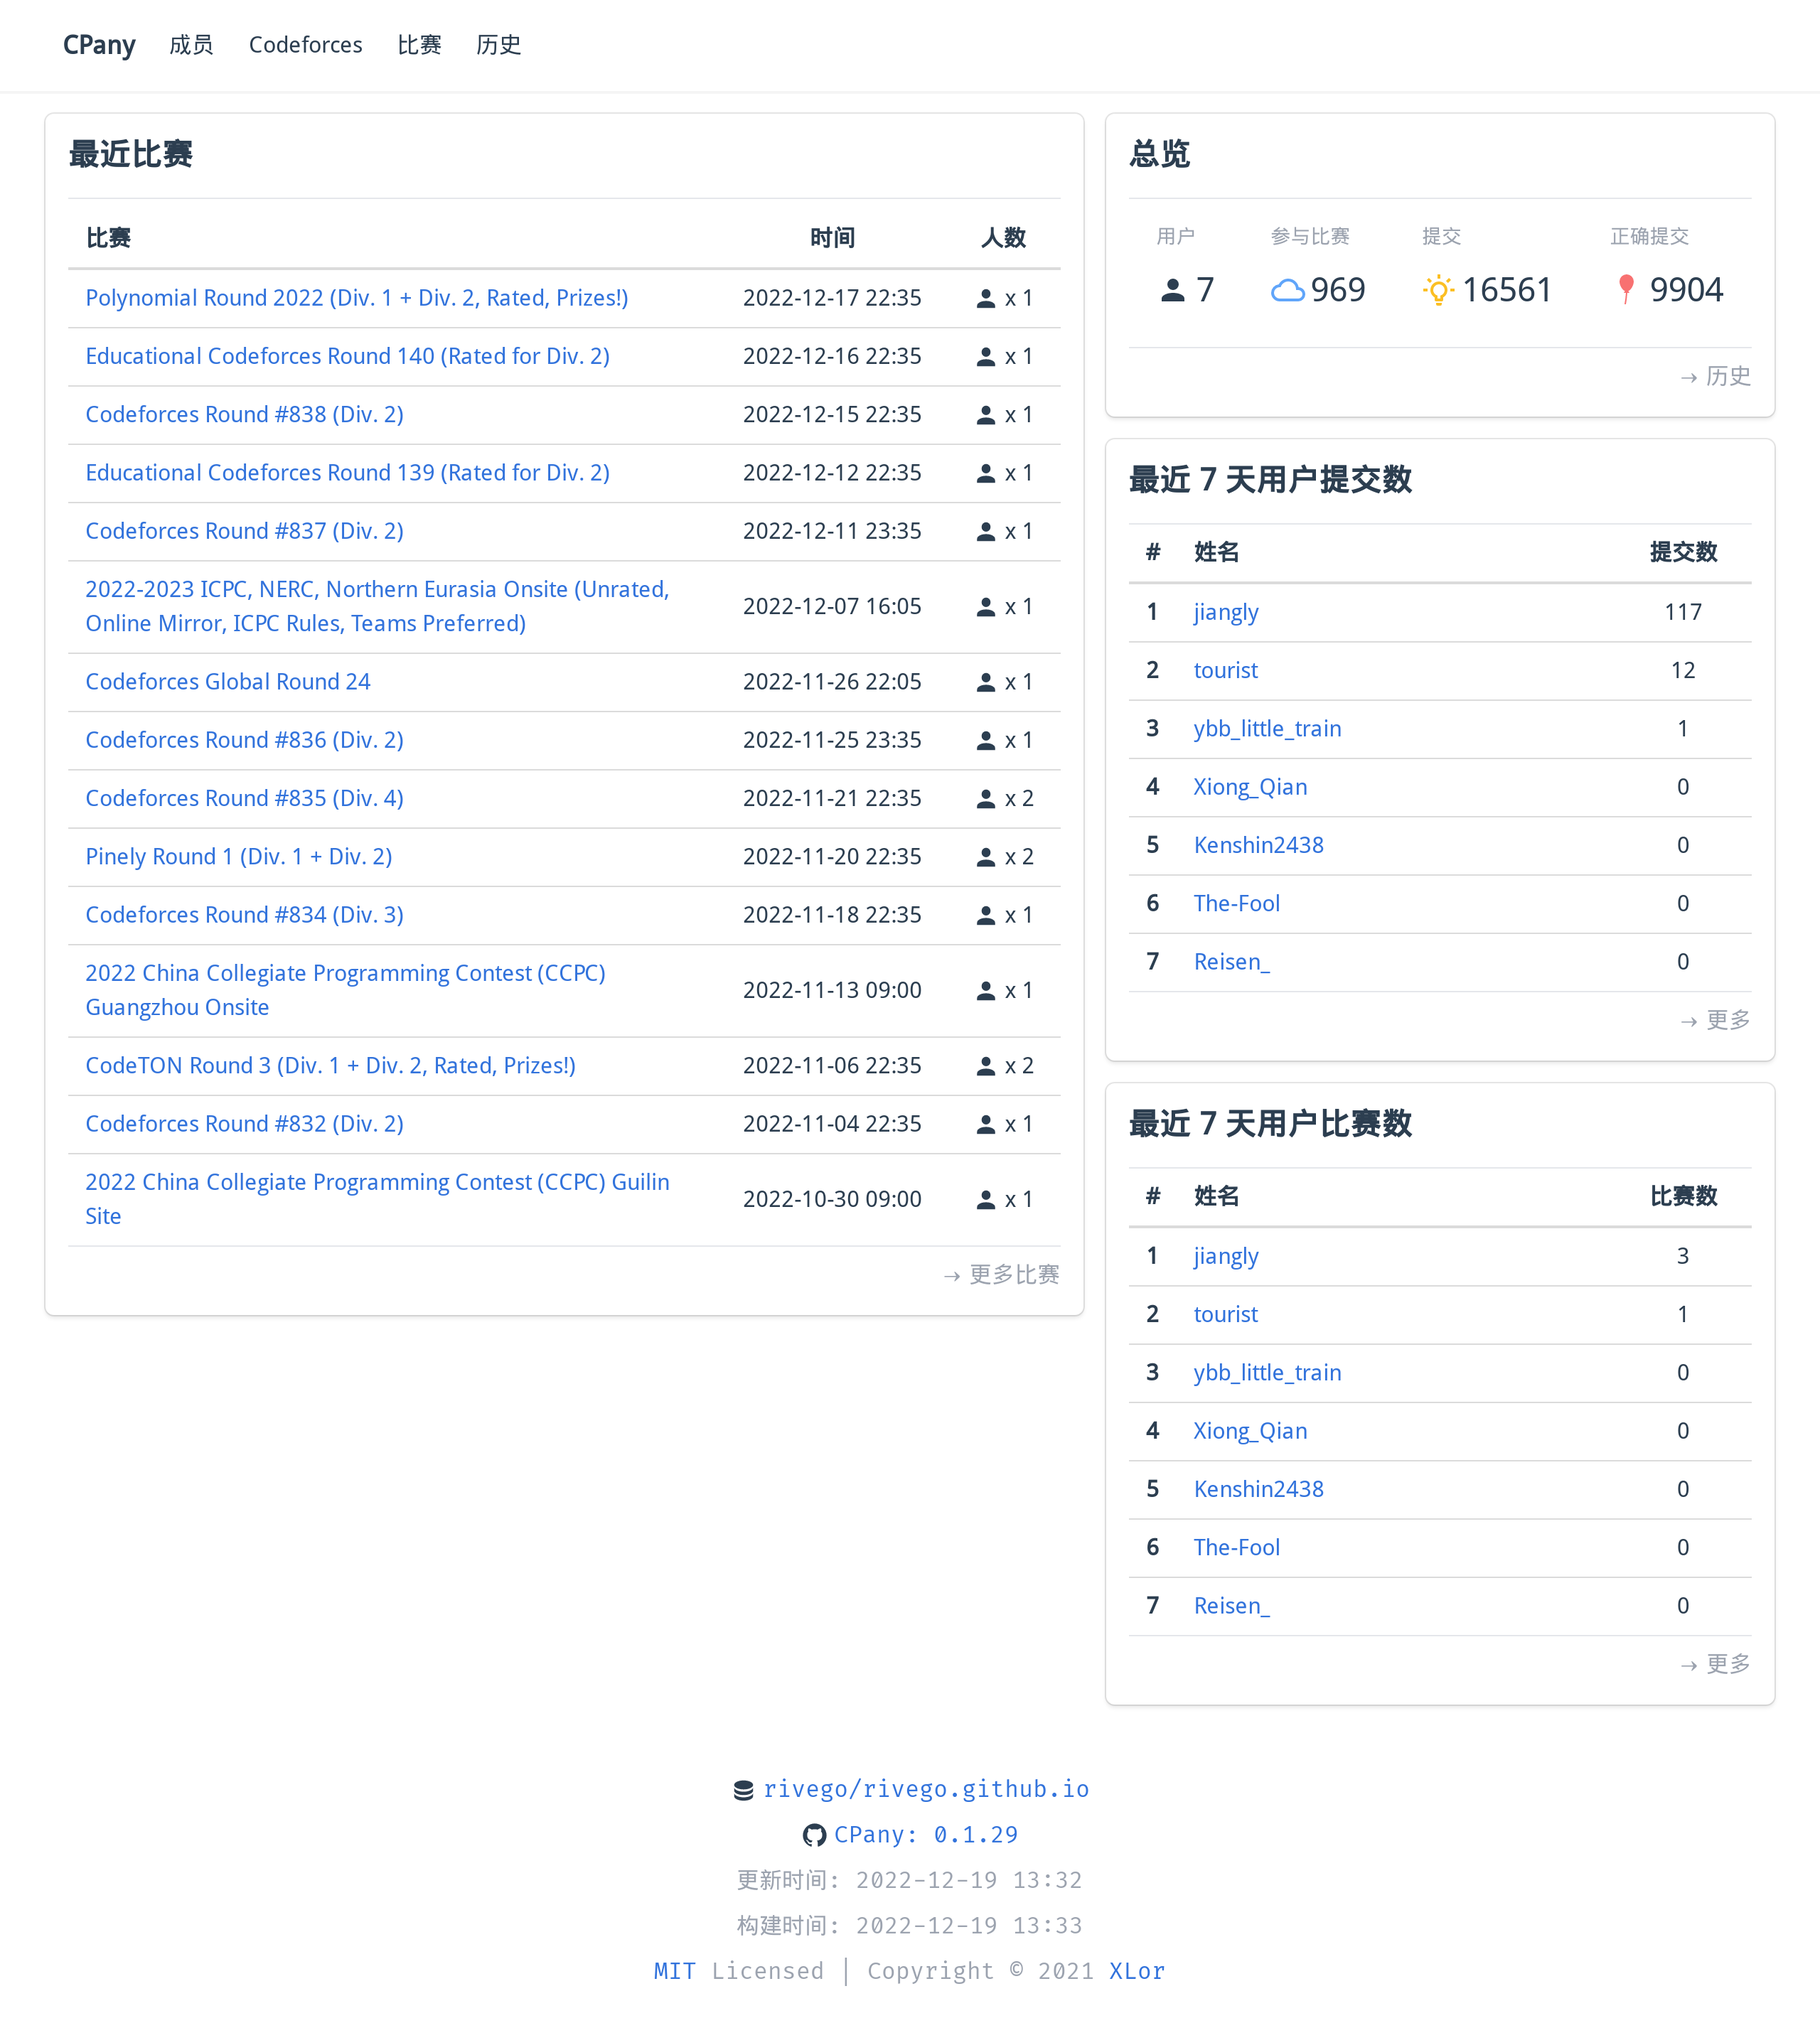
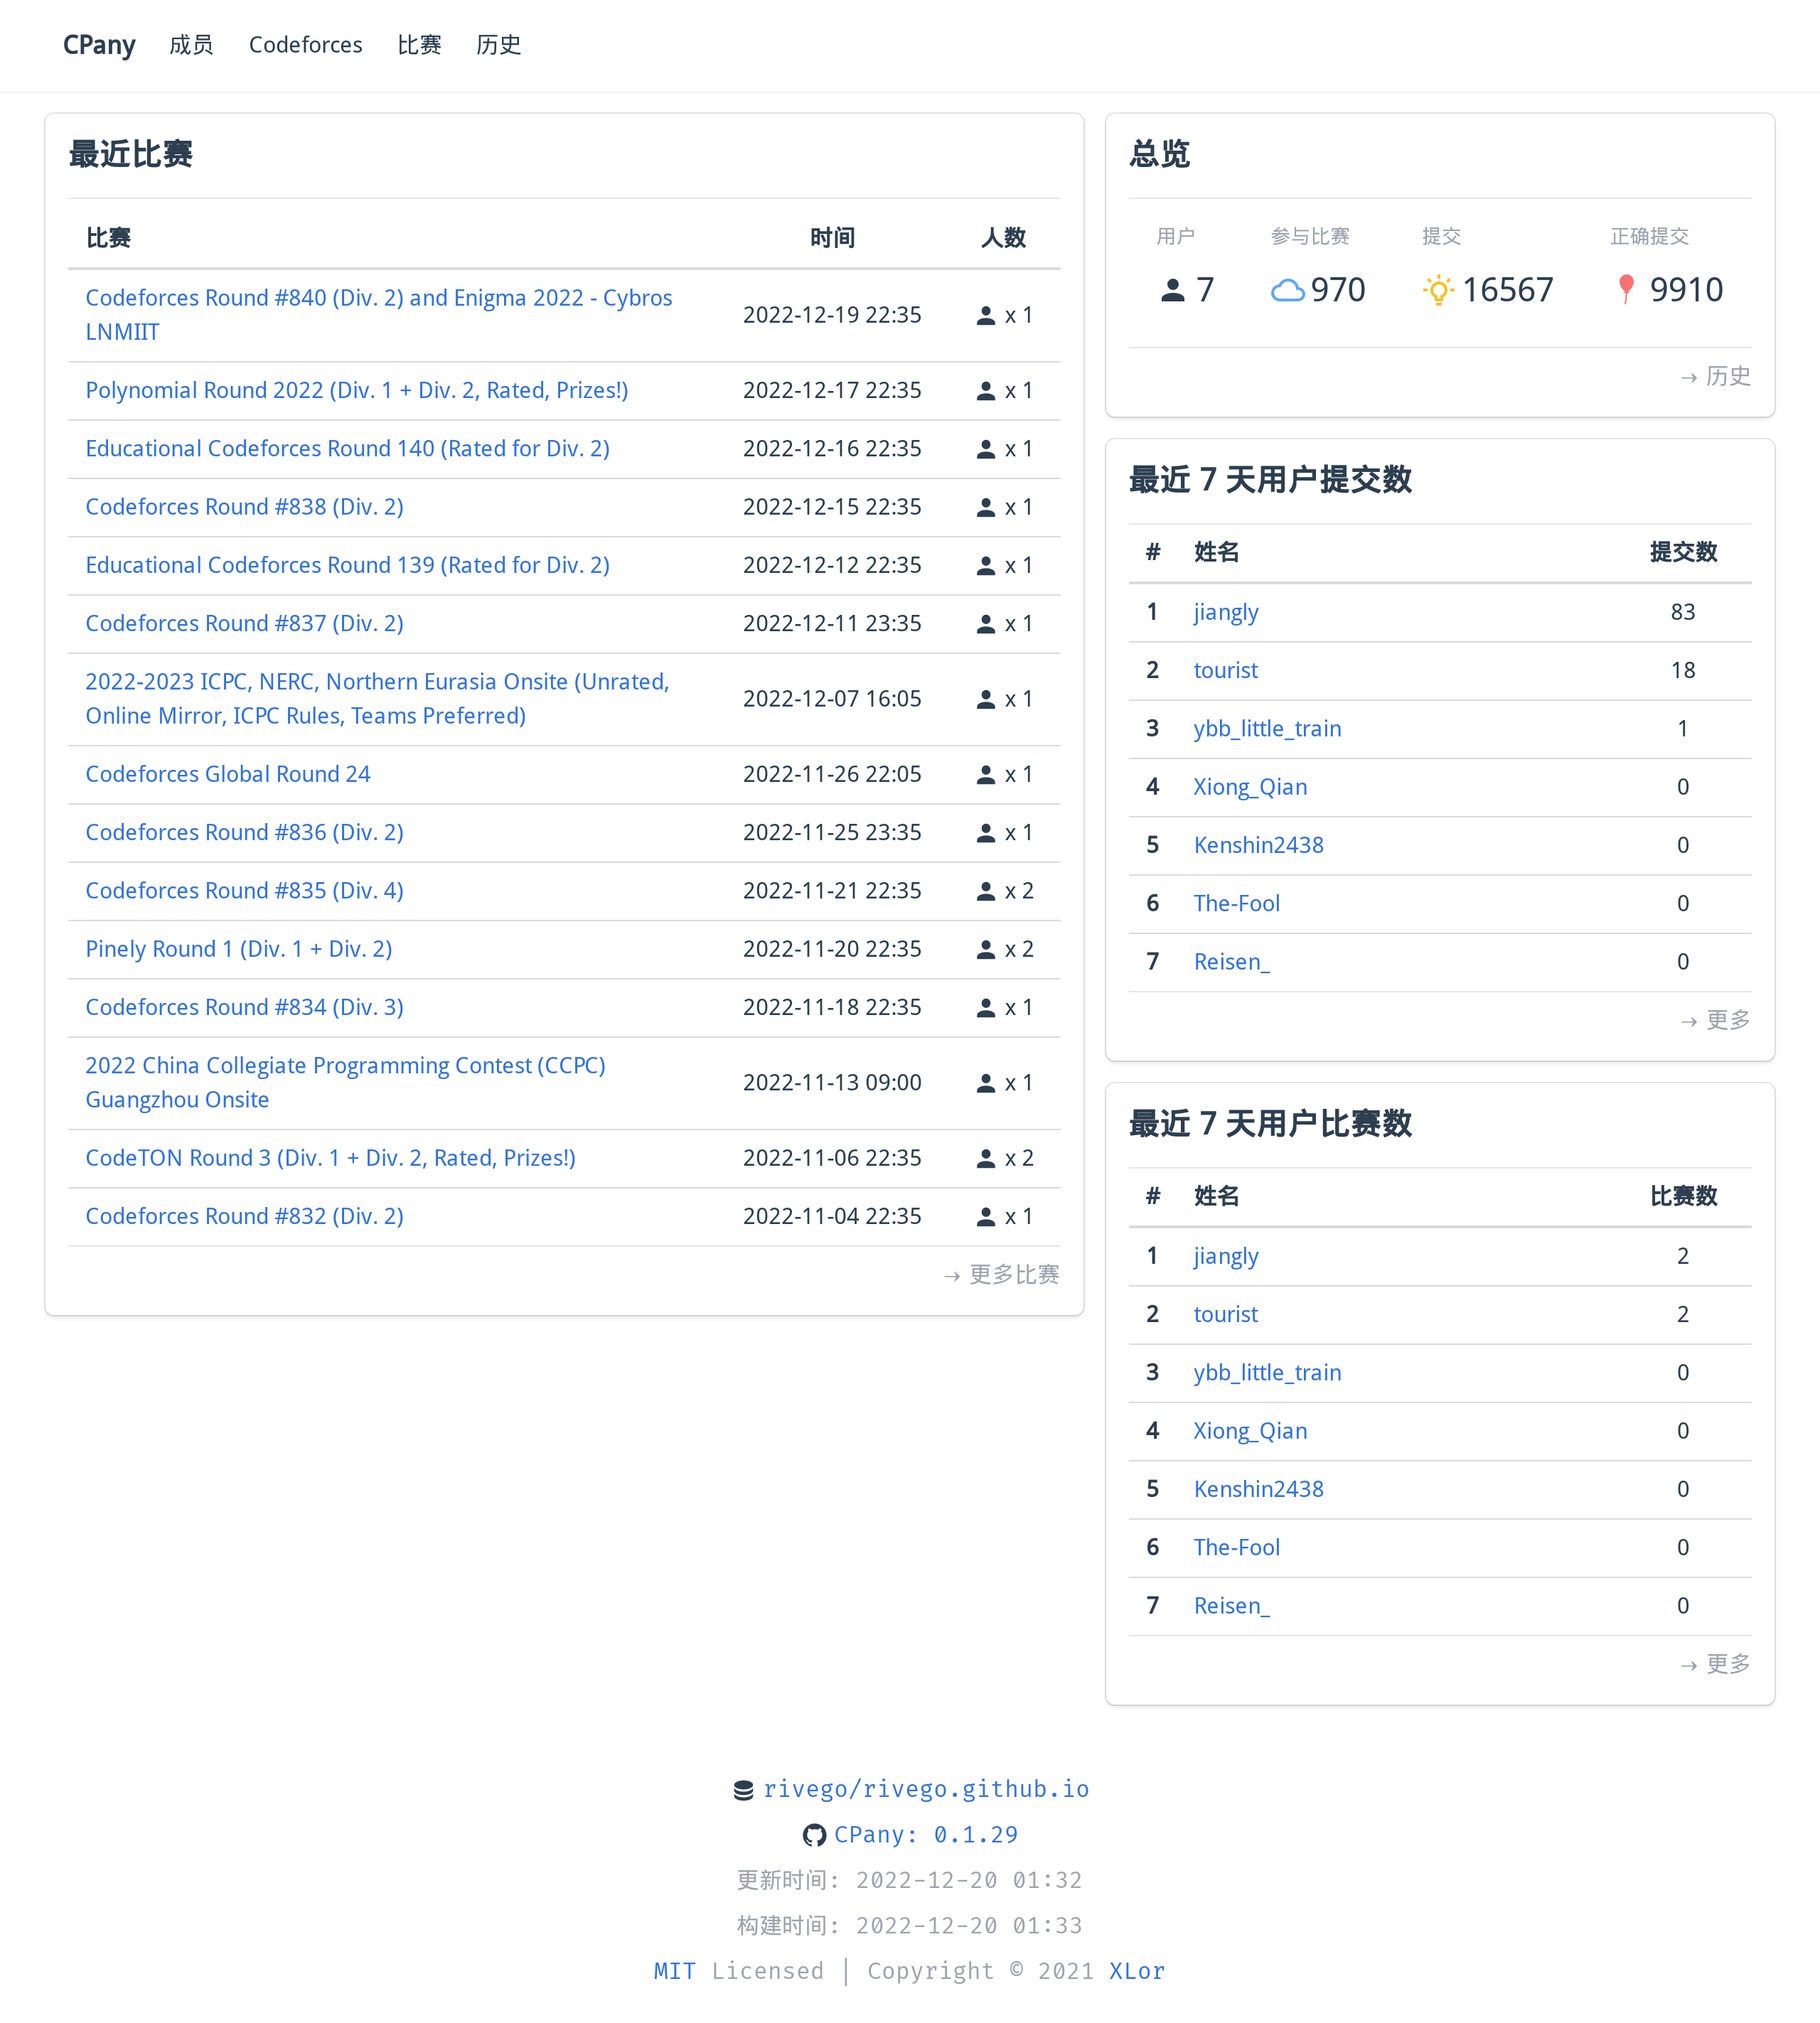
Fetch data on 2022-12-20 01:32

diff --git a/README.md b/README.md
@@ -3,7 +3,7 @@
 [![version](https://img.shields.io/npm/v/@cpany/cli?color=rgb%2850%2C203%2C86%29&label=CPany)](https://www.npmjs.com/package/@cpany/cli)
 
 <!-- START_SECTION: update_time -->
-更新时间：[2022-12-19 13:32](https://www.timeanddate.com/worldclock/fixedtime.html?msg=Fetch+data&iso=202212191671427966000133246&p1=237)
+更新时间：[2022-12-20 01:32](https://www.timeanddate.com/worldclock/fixedtime.html?msg=Fetch+data&iso=202212201671471172000013252&p1=237)
 <!-- END_SECTION: update_time -->
 
 ![members](./screenshot.png)
